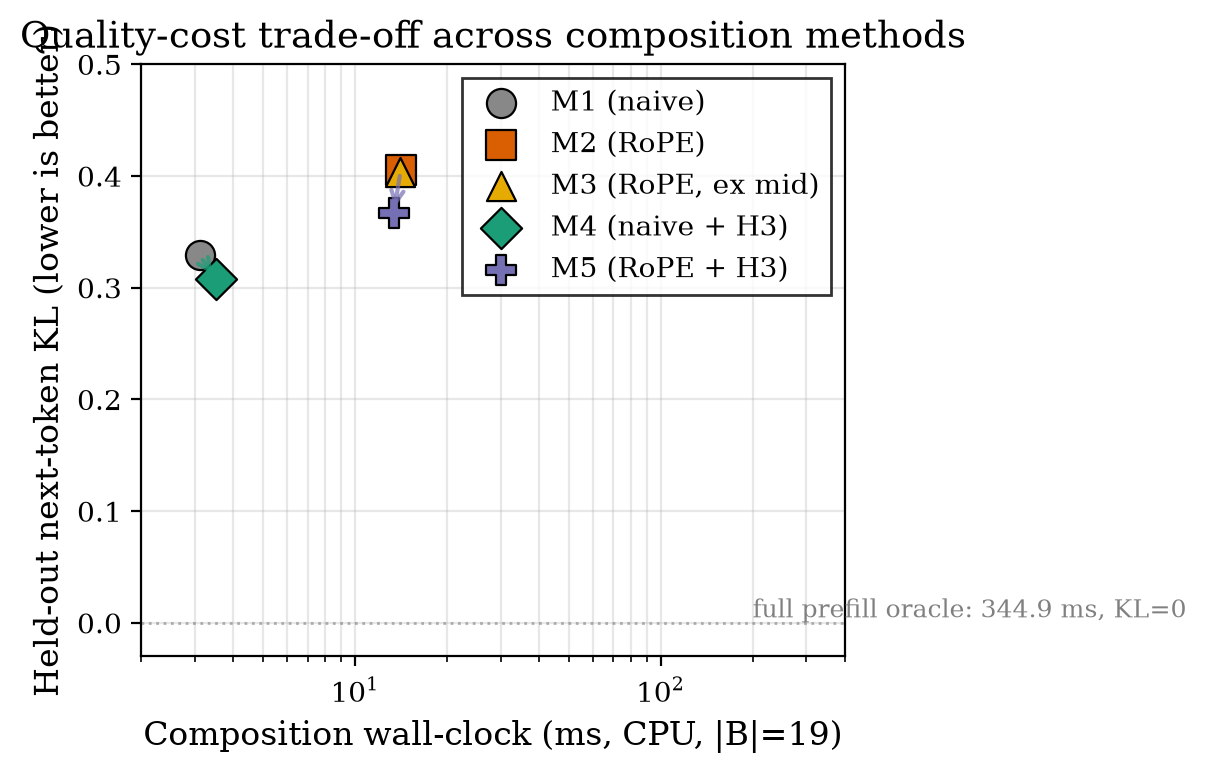
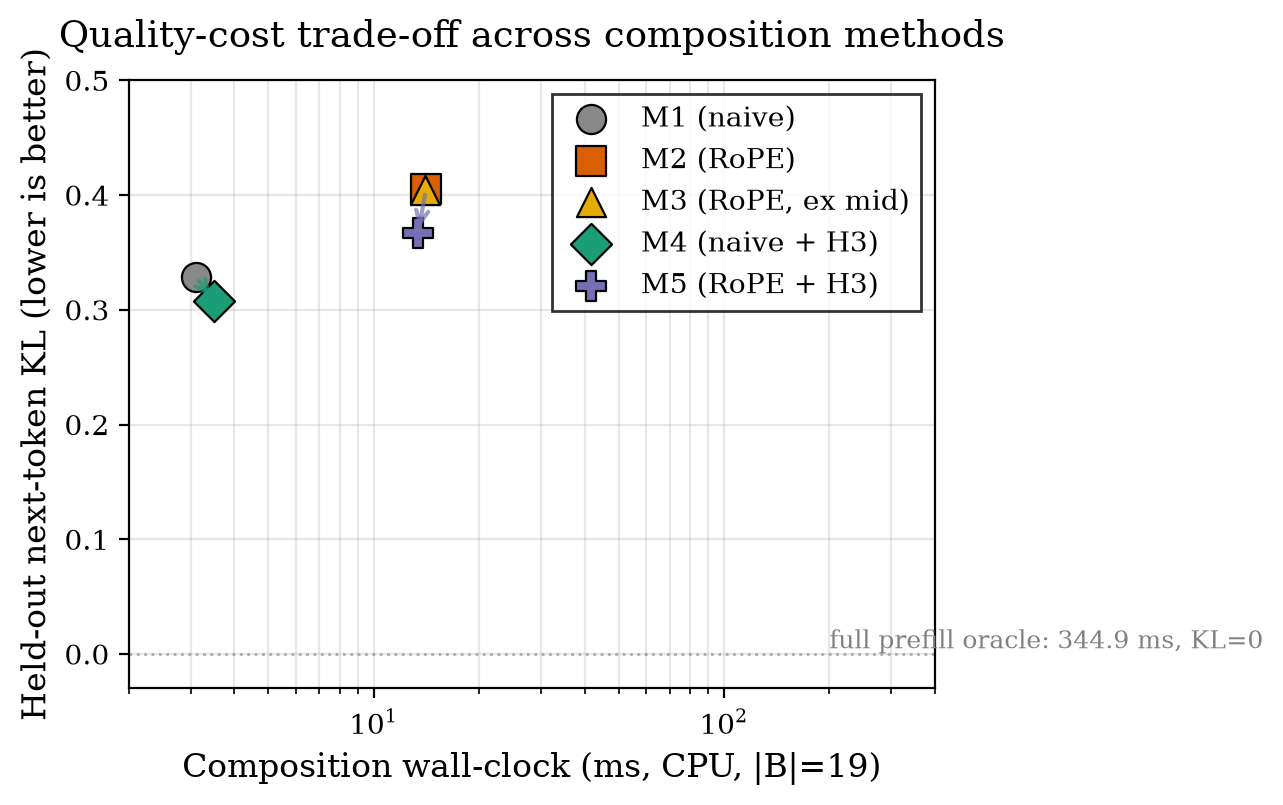
Fix Pareto figure: title clipping and y-axis label truncation
Increased figsize from 6.0x4.0 to 6.5x4.2, added title pad=12, and set
tight_layout(pad=1.2). Title "Quality-cost trade-off across composition
methods" no longer overlaps with the y-axis label, and the y-label
"Held-out next-token KL (lower is better)" now shows its closing
parenthesis.

Changed region(s): [[0.0, 0.0, 0.9818, 0.9935]]

diff --git a/paper/make_pareto.py b/paper/make_pareto.py
@@ -26,7 +26,7 @@ methods = [
 ]
 prefill_baseline = ("full prefill", 344.9, 0.0)
 
-fig, ax = plt.subplots(figsize=(6.0, 4.0))
+fig, ax = plt.subplots(figsize=(6.5, 4.2))
 
 for label, ms, kl, marker, color in methods:
     ax.scatter(ms, kl, s=110, marker=marker, color=color, edgecolor="black",
@@ -45,14 +45,14 @@ ax.annotate("", xy=(13.4, 0.367), xytext=(14.1, 0.405),
 
 ax.set_xlabel("Composition wall-clock (ms, CPU, |B|=19)")
 ax.set_ylabel("Held-out next-token KL (lower is better)")
-ax.set_title("Quality-cost trade-off across composition methods")
+ax.set_title("Quality-cost trade-off across composition methods", pad=12)
 ax.set_xscale("log")
 ax.set_xlim(2, 400)
 ax.set_ylim(-0.03, 0.5)
 ax.grid(True, alpha=0.3, which="both")
 ax.legend(loc="upper right", frameon=True, fancybox=False, edgecolor="black")
 
-plt.tight_layout()
+plt.tight_layout(pad=1.2)
 plt.savefig("paper/pareto.pdf", format="pdf", bbox_inches="tight")
 plt.savefig("paper/pareto.png", format="png", dpi=200, bbox_inches="tight")
 print("Wrote paper/pareto.pdf and paper/pareto.png")
